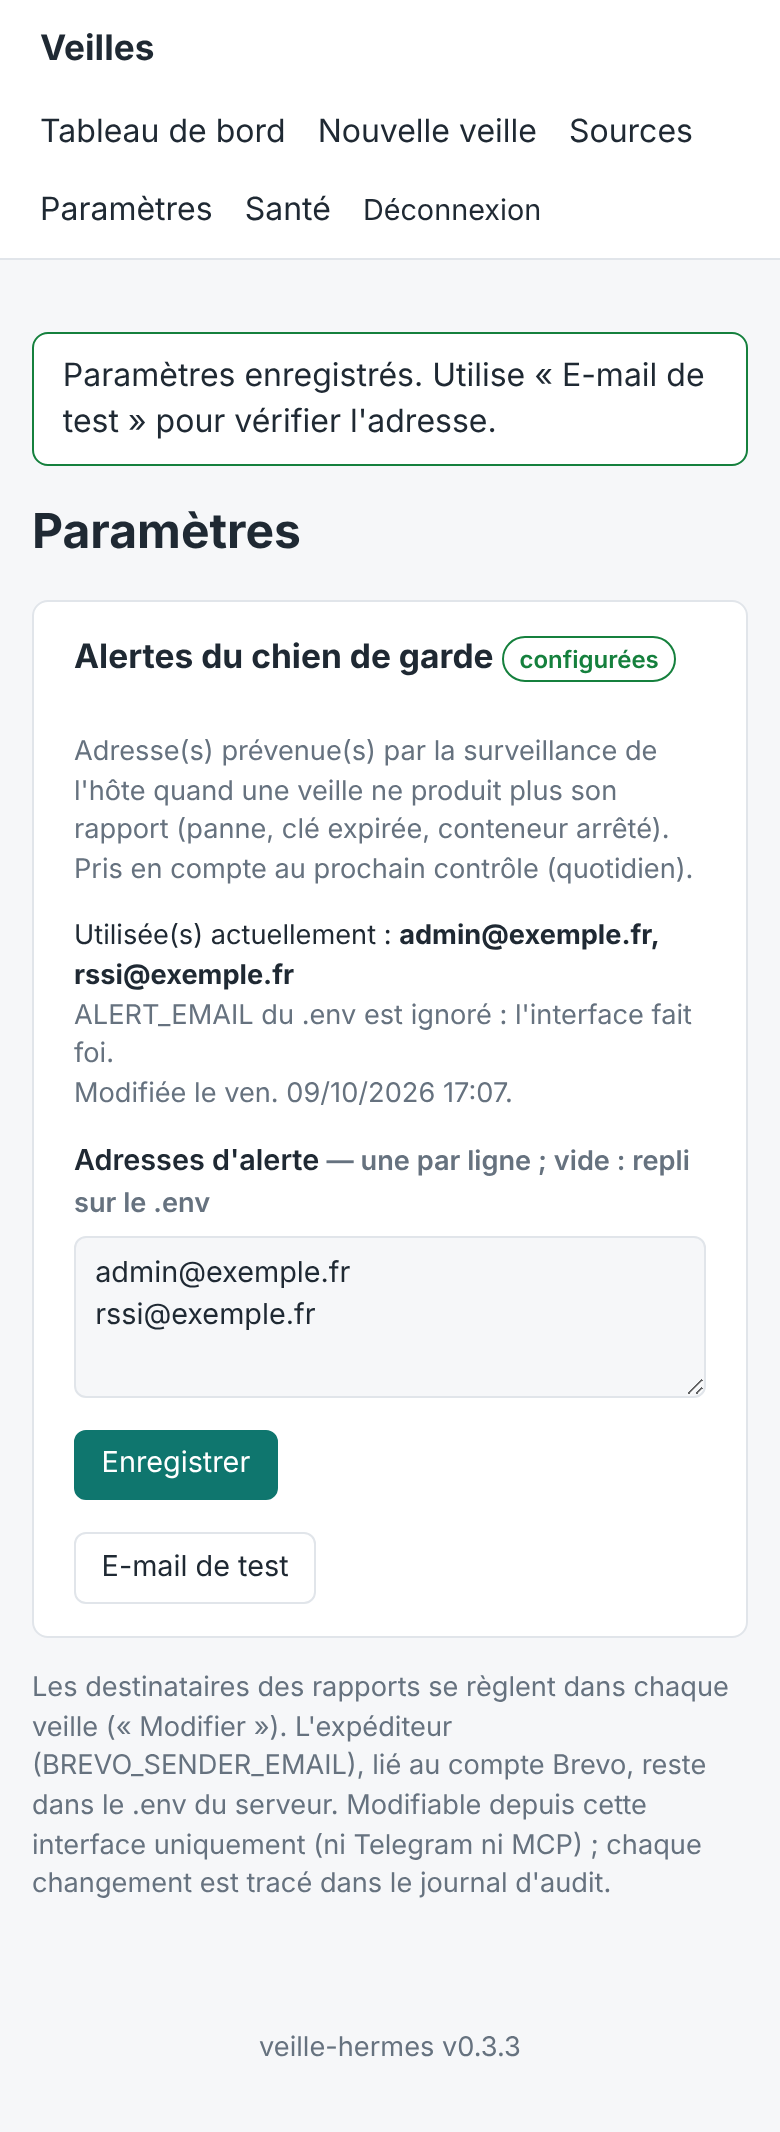
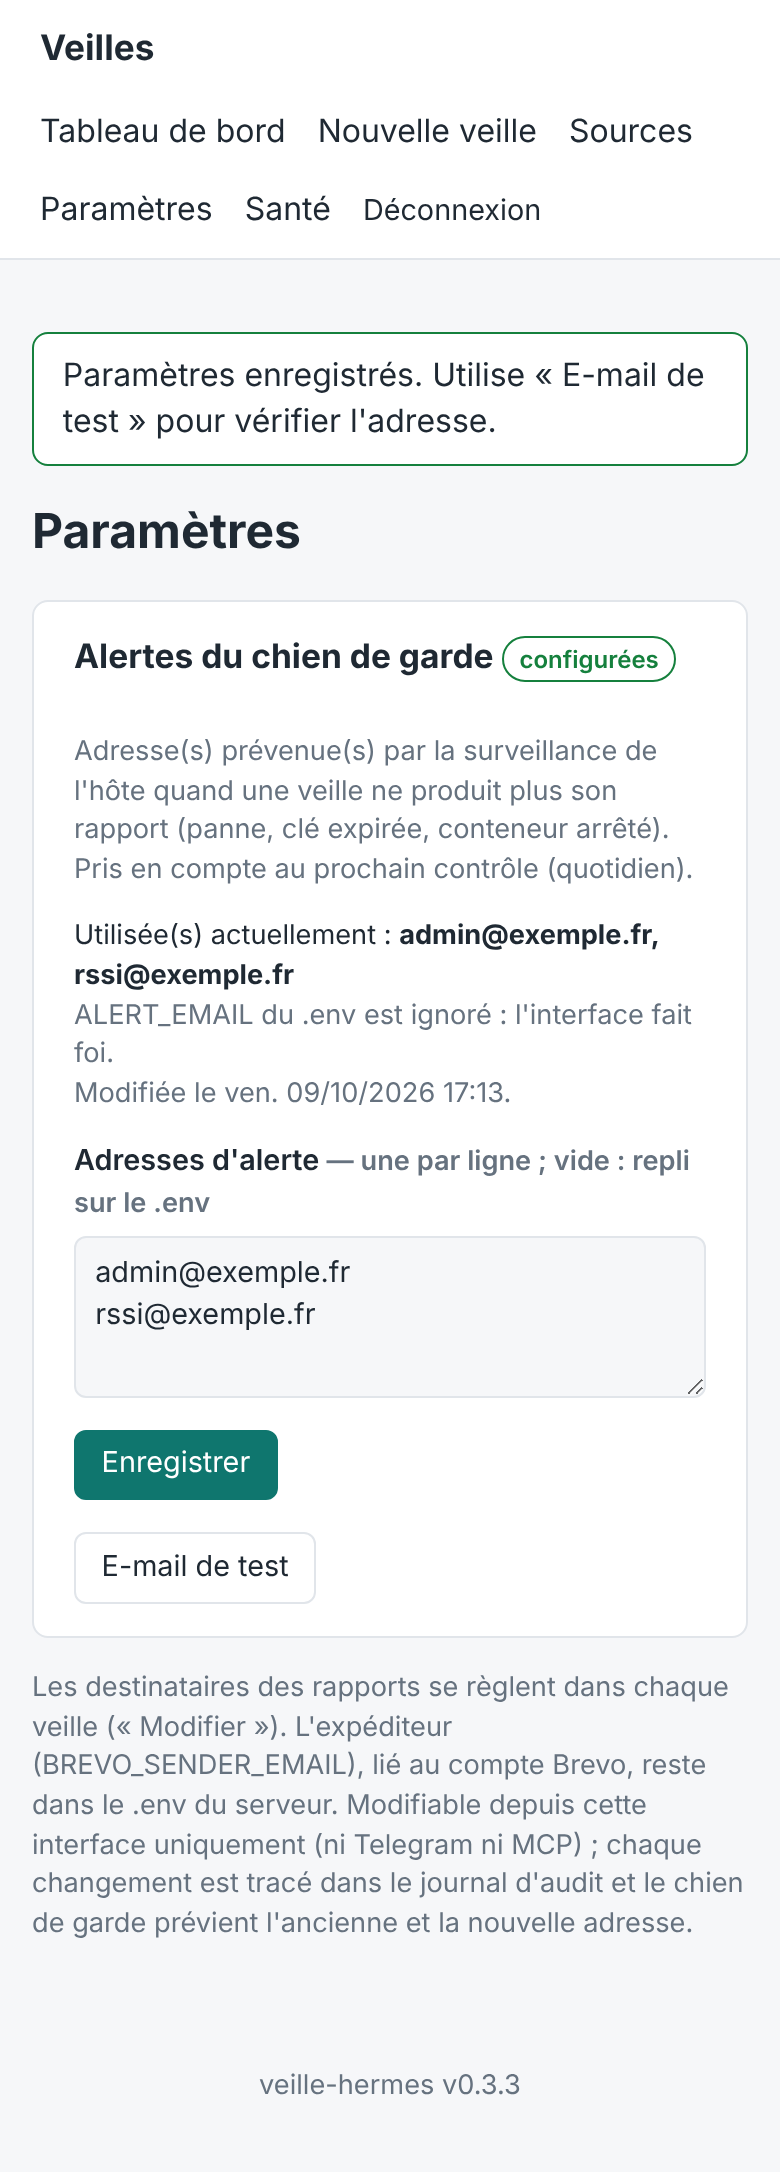
fix(paramètres): retours de revue — cohérence UI/watchdog, changement de destinataires signalé
- settings : filtre des adresses identique au chien de garde (JSON malformé : plus de 500 ni
  d'adresse « éclatée »), env_ignored exact, save renvoie les adresses (audit sans relecture)
- watchdog : ALERT_EMAIL normalisé ; un changement de destinataires est signalé à l'ancienne ET
  à la nouvelle adresse (fichier sur le volume, accessible au conteneur)
- store.read_json_dict : lecteur JSON partagé par credentials et settings (plus de copie)
- service.alert_status : l'interface passe par le service (plus d'alias de module)
- page : repli .env « valeur au démarrage du conteneur » ; installeur : rappel de la page
- tests : contrat UI/watchdog sur payloads malformés et origines, avis de changement,
  MCP vérifié dans la source, test navigateur indépendant de l'environnement

Claude-Session: https://claude.ai/code/session_01Hw7tXCKQ6ADhJCmpc9uRAh

diff --git a/veille_ui/templates/settings.html b/veille_ui/templates/settings.html
@@ -16,7 +16,7 @@
 
   <p class="small">Utilisée(s) actuellement :
     {% if alert.effective %}<strong>{{ alert.effective|join(", ") }}</strong>
-      {% if alert.origin == "env" %}<span class="muted">— ALERT_EMAIL du .env du serveur ; enregistrer ici le remplace.</span>
+      {% if alert.origin == "env" %}<span class="muted">— ALERT_EMAIL du .env du serveur (valeur au démarrage du conteneur) ; enregistrer ici le remplace.</span>
       {% elif alert.origin == "sender" %}<span class="muted">— expéditeur Brevo, faute d'adresse d'alerte.</span>{% endif %}
     {% else %}<span class="err">aucune : le chien de garde ne peut prévenir personne.</span>{% endif %}
     {% if alert.env_ignored %}<br><span class="muted">ALERT_EMAIL du .env est ignoré : l'interface fait foi.</span>{% endif %}
@@ -39,5 +39,6 @@
 
 <p class="small muted">Les destinataires des rapports se règlent dans chaque veille (« Modifier »).
   L'expéditeur (BREVO_SENDER_EMAIL), lié au compte Brevo, reste dans le .env du serveur.
-  Modifiable depuis cette interface uniquement (ni Telegram ni MCP) ; chaque changement est tracé dans le journal d'audit.</p>
+  Modifiable depuis cette interface uniquement (ni Telegram ni MCP) ; chaque changement est tracé dans le journal d'audit
+  et le chien de garde prévient l'ancienne et la nouvelle adresse.</p>
 {% endblock %}

diff --git a/tests/test_settings.py b/tests/test_settings.py
@@ -3,7 +3,6 @@ import importlib.util
 import json
 import re
 import stat
-import sys
 import textwrap
 from pathlib import Path
 
@@ -72,6 +71,11 @@ def test_save_file_mode_unchanged_clear_and_audit(env):
     assert service.save_alert_emails("", actor="test") is False
     audit = [e for e in service.read_audit() if e["action"] == "settings-alert-emails"]
     assert [e["detail"] for e in audit] == ["0 adresse(s)", "1 adresse(s)"]
+    write_env(env, "ALERT_EMAIL=Admin@example.org\n")
+    service.save_alert_emails("admin@example.org", actor="test")
+    assert settings.alert_status()["env_ignored"]
+    write_env(env, "ALERT_EMAIL=admin@example.org\n")
+    assert not settings.alert_status()["env_ignored"]  # même adresse : rien d'ignoré
     assert "admin@example.org" not in json.dumps(audit)
 
 
@@ -112,30 +116,67 @@ def test_send_test_alert(env, mails, monkeypatch):
 
 
 # ----------------------------------------------------------------- chien de garde (hôte)
-@pytest.mark.parametrize("env_text,ui", [
-    ("", None),
-    ("BREVO_SENDER_EMAIL=sender@example.org\n", None),
-    ("BREVO_SENDER_EMAIL=sender@example.org\nALERT_EMAIL=ops@example.org\n", None),
-    ("ALERT_EMAIL=ops@example.org\n", "admin@example.org\nrssi@example.org"),
-    ("ALERT_EMAIL=ops@example.org\n", "{corrompu"),
+ORIGINS = {"ui": "interface", "env": ".env", "sender": "expéditeur Brevo", None: None}
+MALFORMED = ['"admin@example.org"', "5", "[1, null]", "[]", '["sans-arobase"]', '{"x@example.org": 1}', "{corrompu"]
+
+
+@pytest.mark.parametrize("env_text,ui,raw", [
+    ("", None, None),
+    ("BREVO_SENDER_EMAIL=sender@example.org\n", None, None),
+    ("BREVO_SENDER_EMAIL=sender@example.org\nALERT_EMAIL=ops@example.org\n", None, None),
+    ("ALERT_EMAIL='ops@example.org , dsi@example.org'\n", None, None),
+    ("ALERT_EMAIL=ops@example.org\n", "admin@example.org\nrssi@example.org", None),
+    *[("ALERT_EMAIL=ops@example.org\n", None, '{"alert_emails": ' + p + "}") for p in MALFORMED],
+    ("ALERT_EMAIL=ops@example.org\n", None, "{corrompu"),
 ])
-def test_watchdog_resolves_like_the_interface(env, env_text, ui):
+def test_watchdog_resolves_like_the_interface(env, env_text, ui, raw):
     """Même source de vérité des deux côtés : l'interface affiche ce que le chien de garde utilisera."""
     write_env(env, env_text)
-    if ui == "{corrompu":
+    if raw:
         settings.path().parent.mkdir(parents=True, exist_ok=True)
-        settings.path().write_text(ui)
+        settings.path().write_text(raw)
     elif ui:
         service.save_alert_emails(ui, actor="test")
-    to, _ = watchdog.alert_recipients(str(env), watchdog.load_env(str(env / ".env")))
-    assert (to.split(",") if to else []) == settings.alert_status()["effective"]
+    to, origin = watchdog.alert_recipients(str(env), watchdog.load_env(str(env / ".env")))
+    st = settings.alert_status()
+    assert (to.split(",") if to else []) == st["effective"] and origin == ORIGINS[st["origin"]]
 
 
-@pytest.mark.parametrize("payload", ['"admin@example.org"', "[1, null]", "[]", '{"alert_emails": "a@b.fr"}'])
-def test_watchdog_ignores_malformed_settings(tmp_path, payload):
-    (tmp_path / "veilles").mkdir()
-    (tmp_path / "veilles" / ".settings.json").write_text(payload)
-    assert watchdog.alert_recipients(str(tmp_path), {"ALERT_EMAIL": "ops@example.org"}) == ("ops@example.org", ".env")
+@pytest.mark.parametrize("payload", MALFORMED)
+def test_malformed_settings_page_and_save(client, env, payload):  # noqa: F811
+    """Fichier édité à la main : la page s'affiche (repli .env), un enregistrement le remplace."""
+    write_env(env, "ALERT_EMAIL=ops@example.org\n")
+    settings.path().parent.mkdir(parents=True, exist_ok=True)
+    settings.path().write_text('{"alert_emails": ' + payload + "}")
+    csrf = login(client)
+    r = client.get("/settings")
+    assert r.status_code == 200 and "ops@example.org" in r.text and "repli .env" in r.text
+    assert service.save_alert_emails("admin@example.org", actor="test")
+    assert settings.alert_status()["saved"] == ["admin@example.org"] and csrf
+
+
+def test_watchdog_signals_recipient_change_to_old_and_new(env, tmp_path, capsys):
+    """Le fichier des paramètres est sur le volume (accessible au conteneur) : pas de détournement silencieux."""
+    write_env(env, "ALERT_EMAIL=ops@example.org\n")
+    state = tmp_path / "state.json"
+
+    def check(*extra):
+        watchdog.main(["--volume", str(env), "--skip-container", "--env-file", str(env / ".env"),
+                       "--state-file", str(state), "--brevo-script", "/nonexistent", *extra])
+        return capsys.readouterr().out
+
+    assert "changement de destinataires" not in check("--dry-run")  # premier contrôle : rien à comparer
+    watchdog.save_state(str(state), {"alert_to": "ops@example.org"})
+    service.save_alert_emails("pirate@example.org", actor="test")
+    out = check("--dry-run")
+    assert "destinataires des alertes modifiés" in out and "À      : ops@example.org,pirate@example.org" in out
+    assert "Auparavant : ops@example.org" in out
+    out = check()  # envoi en échec (script absent) : l'ancien destinataire est conservé, nouvel essai
+    assert "changement de destinataires signalé : False" in out
+    assert json.loads(state.read_text())["alert_to"] == "ops@example.org"
+    watchdog.save_state(str(state), {"alert_to": "pirate@example.org"})
+    assert "changement de destinataires" not in check("--dry-run")  # inchangé : silence
+    assert "changement de destinataires" not in check("--dry-run", "--to", "x@example.org")  # --to : ignoré
 
 
 def test_watchdog_main_uses_interface_address(env, tmp_path, capsys):
@@ -190,4 +231,5 @@ def test_not_exposed_to_mcp(env):
     """Telegram / MCP ne doivent pas pouvoir détourner les alertes de panne."""
     names = " ".join(tools(build_server()))
     assert "alert" not in names and "setting" not in names
-    assert "settings" not in sys.modules["veille_mcp.server"].__dict__
+    source = (REPO / "veille_mcp" / "server.py").read_text(encoding="utf-8")
+    assert not re.search(r"alert_status|save_alert_emails|send_test_alert|\bsettings\b", source)

diff --git a/scripts/watchdog.py b/scripts/watchdog.py
@@ -103,8 +103,9 @@ def alert_recipients(volume, env):
     if saved:
         return ",".join(saved), "interface"
     for key, origin in (("ALERT_EMAIL", ".env"), ("BREVO_SENDER_EMAIL", "expéditeur Brevo")):
-        if env.get(key):
-            return env[key], origin
+        value = ",".join(a.strip() for a in (env.get(key) or "").split(",") if a.strip())
+        if value:
+            return value, origin
     return None, None
 
 
@@ -268,15 +269,16 @@ def check_logs(container, lines=25):
 # --------------------------------------------------------------------------
 # E-mail
 # --------------------------------------------------------------------------
-def send_mail(args, subject, body, dry_run):
+def send_mail(args, subject, body, dry_run, to=None):
+    to = to or args.to
     if dry_run:
         print("--- [dry-run] e-mail NON envoyé ---")
-        print(f"À      : {args.to}")
+        print(f"À      : {to}")
         print(f"Sujet  : {subject}")
         print(body)
         print("--- fin ---")
         return True
-    if not args.to:
+    if not to:
         print("✗ aucun destinataire d'alerte (interface : Paramètres ; ou ALERT_EMAIL dans .env, ou --to)",
               file=sys.stderr)
         return False
@@ -285,7 +287,7 @@ def send_mail(args, subject, body, dry_run):
         body_path = fh.name
     try:
         code, out = run(
-            [sys.executable, args.brevo_script, "--to", args.to, "--subject", subject,
+            [sys.executable, args.brevo_script, "--to", to, "--subject", subject,
              "--body-file", body_path, "--from-name", ALERT_FROM_NAME, "--env-file", args.env_file],
             timeout=120,
         )
@@ -325,6 +327,27 @@ def alert_subject(problems):
     if len(problems) > 1:
         subject += f" (+{len(problems) - 1} autre{'s' if len(problems) > 2 else ''})"
     return subject
+
+
+def notify_recipients_change(args, state, origin):
+    """Destinataires modifiés depuis le contrôle précédent : l'ANCIEN et le nouveau sont prévenus.
+
+    Le fichier des paramètres vit sur le volume, accessible au conteneur : un changement (même
+    hors de l'interface) ne peut donc pas détourner les alertes en silence.
+    """
+    previous = state.get("alert_to")
+    if previous and previous != args.to:
+        both = ",".join(dict.fromkeys(previous.split(",") + args.to.split(",")))
+        body = (f"Les alertes de panne des veilles iront désormais à : {args.to} (origine : {origin}).\n"
+                f"Auparavant : {previous}.\n\n"
+                "Si ce changement n'est pas de votre fait, vérifiez la page Paramètres de l'interface et le\n"
+                "journal d'audit (page Santé).\n\n— Surveillance automatique des veilles.")
+        sent = send_mail(args, "[INFO] Surveillance des veilles — destinataires des alertes modifiés", body,
+                         args.dry_run, to=both)
+        print(f"changement de destinataires signalé : {sent}")
+        if not sent:
+            return  # ancien destinataire conservé : nouvel essai au prochain contrôle
+    state["alert_to"] = args.to
 
 
 # --------------------------------------------------------------------------
@@ -413,6 +436,8 @@ def main(argv=None):
         print(f"  - {d}")
 
     state = load_state(args.state_file)
+    if origin != "--to" and args.to:
+        notify_recipients_change(args, state, origin)
     action = decide(state, problems.keys(), now.timestamp(), args.remind_days)
 
     if action in ("alert", "remind"):

diff --git a/veille_core/settings.py b/veille_core/settings.py
@@ -2,7 +2,8 @@
 
 Stockage : `veilles/.settings.json`, écriture atomique, mode 0644. Ce ne sont pas des secrets :
 le fichier est INCLUS dans les sauvegardes. Le chien de garde de l'hôte (scripts/watchdog.py,
-bibliothèque standard seule) le lit directement : même format, même ordre de priorité.
+bibliothèque standard seule) le lit directement : même format, même filtre, même priorité
+(vérifié par tests/test_settings.py).
 
 Destinataires des alertes, par priorité : interface > `ALERT_EMAIL` du `.env` > expéditeur
 Brevo. L'interface fait foi ; le `.env` ne sert plus que de repli (installations existantes).
@@ -25,13 +26,12 @@ def path():
 
 
 def _stored() -> dict:
-    try:
-        data = json.loads(path().read_text(encoding="utf-8"))
-    except FileNotFoundError:
-        return {}
-    except (OSError, ValueError) as exc:
-        raise SettingsError(f"fichier des paramètres illisible ({type(exc).__name__})") from None
-    return data if isinstance(data, dict) else {}
+    return store.read_json_dict(path(), SettingsError, "fichier des paramètres")
+
+
+def _saved(value) -> list[str]:
+    """Adresses enregistrées ; une valeur malformée (fichier édité à la main) est ignorée."""
+    return [a for a in value if isinstance(a, str) and "@" in a] if isinstance(value, list) else []
 
 
 def _split(value: str | None) -> list[str]:
@@ -44,16 +44,17 @@ def alert_status() -> dict:
         stored, error = _stored(), None
     except SettingsError as exc:  # affiché ; le .env prend le relais, comme dans le chien de garde
         stored, error = {}, str(exc)
-    saved = [a for a in stored.get("alert_emails") or [] if isinstance(a, str)]
+    saved = _saved(stored.get("alert_emails"))
     env_value = _split(envfile.get("ALERT_EMAIL"))
     sender = _split(envfile.get("BREVO_SENDER_EMAIL"))
     origin = "ui" if saved else "env" if env_value else "sender" if sender else None
     return {"saved": saved, "effective": saved or env_value or sender, "origin": origin,
-            "env_ignored": bool(saved and env_value), "error": error, "updated_at": stored.get("updated_at")}
+            "env_ignored": bool(saved and env_value and env_value != saved), "error": error,
+            "updated_at": stored.get("updated_at")}
 
 
-def save_alert_emails(text: str) -> bool:
-    """Enregistre les adresses (texte libre ; vide = retour au `.env`). Renvoie True si modifié.
+def save_alert_emails(text: str) -> list[str] | None:
+    """Enregistre les adresses (texte libre ; vide = retour au `.env`) ; None si inchangées.
 
     À appeler sous le verrou des veilles (service.save_alert_emails).
     """
@@ -66,7 +67,7 @@ def save_alert_emails(text: str) -> bool:
         data = {}  # illisible : remplacé (rien d'exploitable à conserver)
     else:
         if data.get("alert_emails", []) == addresses:
-            return False
+            return None
     data.update(alert_emails=addresses, updated_at=store.now_iso())
     store.atomic_write(path(), json.dumps(data, ensure_ascii=False, indent=1) + "\n")
-    return True
+    return addresses

diff --git a/tests/test_ui_browser.py b/tests/test_ui_browser.py
@@ -158,8 +158,10 @@ def test_detail_network_failure_can_be_retried(data, page):
     pg.get_by_text("Nouveau site d'assemblage").wait_for()
 
 
-def test_settings_page_mobile(page):
+def test_settings_page_mobile(page, monkeypatch):
     """Page Paramètres en PWA mobile : sans JS en ligne (CSP), confirmation, aucun défilement horizontal."""
+    for k in ("ALERT_EMAIL", "BREVO_SENDER_EMAIL"):  # indépendant de l'environnement du poste
+        monkeypatch.delenv(k, raising=False)
     pg = page
     pg.click("nav a[href='/settings']")
     pg.get_by_text("aucune : le chien de garde ne peut prévenir personne").wait_for()
@@ -168,6 +170,9 @@ def test_settings_page_mobile(page):
     pg.get_by_text("Paramètres enregistrés").wait_for()
     assert "admin@example.org, rssi@example.org" in pg.text_content("#alertes")
     assert pg.evaluate("document.documentElement.scrollWidth <= window.innerWidth")
-    pg.once("dialog", lambda d: d.dismiss())  # data-confirm (app.js) : refusé, aucun envoi
+    dialogs = []
+    pg.once("dialog", lambda d: (dialogs.append(d.message), d.dismiss()))  # data-confirm (app.js) : refusé
     pg.click("#alertes .actions button")
-    assert pg.url.endswith("/settings?ok=settings-saved")
+    pg.wait_for_timeout(300)  # laisse à une éventuelle soumission le temps de naviguer
+    assert dialogs == ["Envoyer un e-mail de test à admin@example.org, rssi@example.org ?"]
+    assert pg.url.endswith("/settings?ok=settings-saved") and "Paramètres enregistrés" in pg.content()

diff --git a/veille_core/service.py b/veille_core/service.py
@@ -687,13 +687,18 @@ def check_credentials(provider: str, actor: str = "ui") -> str:
     return "Connexion à Digi-Key réussie."
 
 
+def alert_status() -> dict:
+    """Adresses d'alerte du chien de garde : enregistrées, effectives et leur origine."""
+    return settings.alert_status()
+
+
 def save_alert_emails(text: str, actor: str = "ui") -> bool:
     """Adresses des alertes du chien de garde (interface seule : jamais le MCP)."""
     with _locked():
-        changed = settings.save_alert_emails(text)
-    if changed:
-        audit(actor, "settings-alert-emails", detail=f"{len(settings.alert_status()['saved'])} adresse(s)")
-    return changed
+        saved = settings.save_alert_emails(text)
+    if saved is not None:  # nombre seulement, jamais les adresses
+        audit(actor, "settings-alert-emails", detail=f"{len(saved)} adresse(s)")
+    return saved is not None
 
 
 def send_test_alert(actor: str = "ui") -> str:

diff --git a/veille_core/store.py b/veille_core/store.py
@@ -107,6 +107,17 @@ def veille_dir(slug: str) -> Path:
     return paths.veilles_dir() / check_slug(slug)
 
 
+def read_json_dict(path: Path, error: type[Exception], label: str) -> dict:
+    """Objet JSON d'un fichier de réglages ; absent : {}. Illisible : lève `error` (sans le contenu)."""
+    try:
+        data = json.loads(path.read_text(encoding="utf-8"))
+    except FileNotFoundError:
+        return {}
+    except (OSError, ValueError) as exc:
+        raise error(f"{label} illisible ({type(exc).__name__})") from None
+    return data if isinstance(data, dict) else {}
+
+
 def atomic_write(path: Path, text: str, mode: int = 0o644) -> None:
     path.parent.mkdir(parents=True, exist_ok=True)
     fd, tmp = tempfile.mkstemp(prefix=f".{path.name}.", dir=path.parent)

diff --git a/veille_ui/app.py b/veille_ui/app.py
@@ -29,7 +29,6 @@ from veille_core import (
     store,
     version,
 )
-from veille_core import settings as admin_settings  # `settings` : réglages d'auth dans create_app
 from veille_core.store import StoreError
 
 from . import auth
@@ -540,7 +539,7 @@ def create_app() -> FastAPI:
 
     # -------------------------------------------------------------- paramètres (interface seule)
     def settings_page(request: Request, status_code: int = 200, /, **ctx):
-        return render(request, "settings.html", status_code, alert=admin_settings.alert_status(), **ctx)
+        return render(request, "settings.html", status_code, alert=service.alert_status(), **ctx)
 
     @app.get("/settings", response_class=HTMLResponse)
     def settings_form(request: Request):

diff --git a/veille_core/credentials.py b/veille_core/credentials.py
@@ -36,13 +36,7 @@ def path():
 
 
 def _stored() -> dict:
-    try:
-        data = json.loads(path().read_text(encoding="utf-8"))
-    except FileNotFoundError:
-        return {}
-    except (OSError, ValueError) as exc:
-        raise CredentialsError(f"fichier des clés illisible ({type(exc).__name__})") from None
-    return data if isinstance(data, dict) else {}
+    return store.read_json_dict(path(), CredentialsError, "fichier des clés")
 
 
 def _stored_or_empty() -> dict:

diff --git a/CHANGELOG.md b/CHANGELOG.md
@@ -25,12 +25,16 @@ Adresses d'alerte du chien de garde modifiables dans l'interface, sans toucher a
 - **Chien de garde** : destinataires lus sur le volume — interface, sinon `ALERT_EMAIL` du `.env`
   (repli des installations existantes), sinon `BREVO_SENDER_EMAIL`. Chaque contrôle affiche le
   destinataire retenu et son origine. Pris en compte au contrôle suivant, sans réinstallation.
+  **Tout changement de destinataires est signalé à l'ancienne ET à la nouvelle adresse** : le
+  fichier vit sur le volume, accessible au conteneur, et ne peut donc pas détourner les alertes
+  en silence.
 - `ALERT_EMAIL` devient facultatif dans le `.env`. L'expéditeur (`BREVO_SENDER_*`) et
   `VEILLE_RECIPIENTS` (amorçage de la première veille) y restent ; les destinataires des rapports
   se règlent toujours dans chaque veille.
 
 ### Corrigé
 
+- Lecture des fichiers de réglages JSON (clés d'API, paramètres) factorisée (`store.read_json_dict`).
 - `make watchdog-install` : l'e-mail de test du canal d'alerte lit désormais le dossier de données
   réel (`VEILLE_DATA_DIR`) et non `./data` du dépôt.
 

diff --git a/README.md b/README.md
@@ -309,7 +309,8 @@ Contrôle quotidien (10h, heure de Paris) :
 
 Les alertes vont aux adresses saisies dans l'interface, page **Paramètres** (stockées sur le
 volume, dans `veilles/.settings.json`, prises en compte au contrôle suivant) ; à défaut à
-`ALERT_EMAIL` du `.env`, puis à l'expéditeur Brevo. Alerte immédiate à chaque nouveau problème, rappel tous les
+`ALERT_EMAIL` du `.env`, puis à l'expéditeur Brevo. Un changement de destinataires est signalé à
+l'ancienne et à la nouvelle adresse. Alerte immédiate à chaque nouveau problème, rappel tous les
 3 jours tant qu'il persiste, puis **e-mail de rétablissement**. L'état est conservé dans
 `/var/lib/veille-watchdog/state.json`.
 
